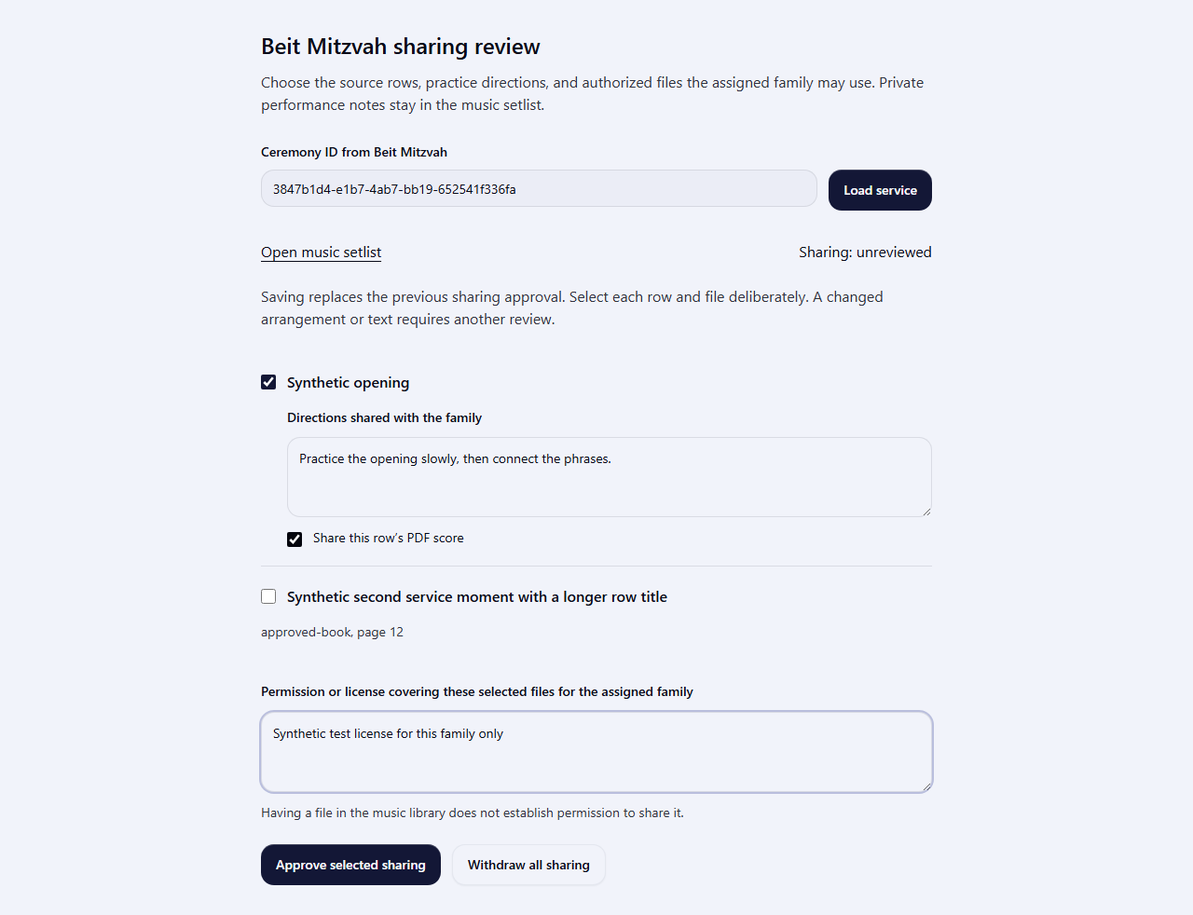
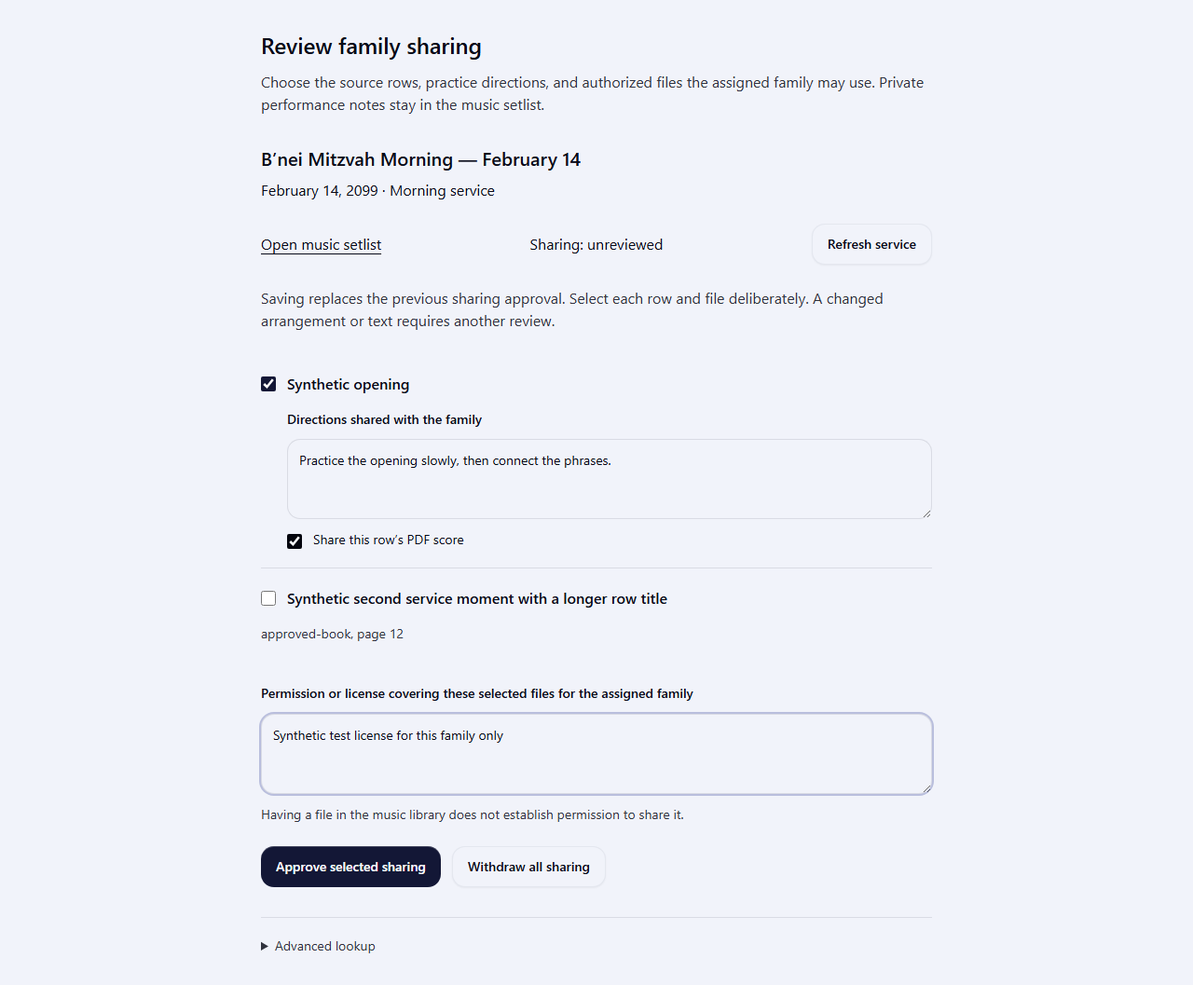
Fence schedule revisions and open linked sharing reviews directly

diff --git a/src/app/(main)/integrations/beit-mitzvah/page.tsx b/src/app/(main)/integrations/beit-mitzvah/page.tsx
@@ -1,6 +1,6 @@
 "use client"
 
-import { useEffect, useState } from "react"
+import { useCallback, useEffect, useState } from "react"
 import { useAuth } from "@/lib/auth-context"
 import { apiFetch } from "@/lib/api-client"
 import { Button } from "@/components/ui/button"
@@ -12,6 +12,19 @@ type ReviewRow = SharedRow & { audioFileId?: string | null }
 interface Inspection {
     setlistId: string; sourceRevision: string; reviewRequired: boolean; status: string
     requestedLocalDate: string; requestedCeremonyType: string; rows: ReviewRow[]
+    serviceName: string; localDate: string; ceremonyType: string
+}
+async function call(body: object) {
+    const response = await apiFetch("/api/integrations/beit-mitzvah/review", { method: "POST", body: JSON.stringify(body) })
+    const data = await response.json()
+    if (!response.ok) throw new Error(data.error === "stale_source" ? "The music changed. Refresh the service before approving." :
+        data.error === "source_schedule_mismatch" ? "Update the date and service type in the music setlist first, then confirm the schedule here." :
+        data.error === "resource_manifest_required" ? "A selected file needs an exact source catalog hash and Storage generation before it can be shared." :
+        data.error === "integration_unconfigured" ? "The music connection has not been configured." : "The action could not be completed. Check your music access and refresh the service.")
+    return data
+}
+function humanDate(date: string): string {
+    return new Date(`${date}T12:00:00Z`).toLocaleDateString("en-US", { dateStyle: "long", timeZone: "UTC" })
 }
 export default function BeitMitzvahReviewPage() {
     const { user, loading, role } = useAuth()
@@ -23,24 +36,20 @@ export default function BeitMitzvahReviewPage() {
     const [rights, setRights] = useState("")
     const [busy, setBusy] = useState(false)
     const [message, setMessage] = useState("")
-    useEffect(() => { setCeremonyId(new URLSearchParams(window.location.search).get("ceremonyId") ?? "") }, [])
-    async function call(body: object) {
-        const response = await apiFetch("/api/integrations/beit-mitzvah/review", { method: "POST", body: JSON.stringify(body) })
-        const data = await response.json()
-        if (!response.ok) throw new Error(data.error === "stale_source" ? "The music changed. Load the service again before approving." :
-            data.error === "source_schedule_mismatch" ? "Update the date and service type in the music setlist first, then confirm the schedule here." :
-            data.error === "resource_manifest_required" ? "A selected file needs an exact source catalog hash and Storage generation before it can be shared." :
-            data.error === "integration_unconfigured" ? "The music connection has not been configured." : "The action could not be completed. Check your music access and reload the service.")
-        return data
-    }
-    async function inspect() {
+    const inspect = useCallback(async (id: string) => {
         setBusy(true); setMessage("")
         try {
-            const data = await call({ operation: "inspect", ceremonyId }) as Inspection
+            const data = await call({ operation: "inspect", ceremonyId: id }) as Inspection
             setSource(data); setSelected([]); setFiles([]); setRights("")
             setDirections(Object.fromEntries(data.rows.map(row => [row.rowId, row.sharedDirections ?? ""])))
         } catch (error) { setSource(null); setMessage((error as Error).message) } finally { setBusy(false) }
-    }
+    }, [])
+    const canReview = !!user && ["admin", "band_leader"].includes(role ?? "")
+    useEffect(() => {
+        const id = new URLSearchParams(window.location.search).get("ceremonyId") ?? ""
+        setCeremonyId(id)
+        if (canReview && id) void inspect(id)
+    }, [canReview, inspect])
     async function save(operation: "approve" | "revoke" | "confirm_schedule") {
         if (!source) return
         setBusy(true); setMessage("")
@@ -55,7 +64,7 @@ export default function BeitMitzvahReviewPage() {
                 ...(operation === "approve" ? { rowIds: selected, sharedDirections: Object.fromEntries(selected.map(id => [id, directions[id] ?? ""])), resources } : {}),
             })
             setSource(null)
-            setMessage(operation === "revoke" ? "Sharing withdrawn. Future projection and file requests are blocked." : operation === "confirm_schedule" ? "Schedule confirmed. Load the service to review what families can see." : "Review saved. Only the selected rows and files are shared with the assigned ceremony.")
+            setMessage(operation === "revoke" ? "Sharing withdrawn. New family requests for these rows and files are blocked." : operation === "confirm_schedule" ? "Schedule confirmed. Refresh the service to review what families can see." : "Review saved. Only the selected rows and files are shared with the assigned ceremony.")
         } catch (error) { setMessage((error as Error).message) } finally { setBusy(false) }
     }
     const toggle = (id: string, values: string[], set: (values: string[]) => void) => set(values.includes(id) ? values.filter(value => value !== id) : [...values, id])
@@ -63,21 +72,22 @@ export default function BeitMitzvahReviewPage() {
     if (!user || !["admin", "band_leader"].includes(role ?? "")) return <p className="p-6">Sign in with your CRC music editor account to review family sharing.</p>
     return <main className="mx-auto max-w-3xl space-y-8 px-4 py-8 sm:px-6">
         <header className="space-y-3">
-            <h1 className="text-2xl font-semibold">Beit Mitzvah sharing review</h1>
+            <h1 className="text-2xl font-semibold">Review family sharing</h1>
             <p className="text-muted-foreground">Choose the source rows, practice directions, and authorized files the assigned family may use. Private performance notes stay in the music setlist.</p>
         </header>
-        <form className="flex flex-col gap-3" onSubmit={event => { event.preventDefault(); void inspect() }}>
-            <Label htmlFor="ceremony">Ceremony ID from Beit Mitzvah</Label>
-            <div className="flex flex-col gap-3 sm:flex-row">
-                <Input id="ceremony" value={ceremonyId} onChange={event => { setCeremonyId(event.target.value); setSource(null) }} required disabled={busy} />
-                <Button disabled={busy || !ceremonyId} type="submit">{busy ? "Working…" : "Load service"}</Button>
-            </div>
-        </form>
+        {busy && !source && <p role="status">Loading the service for review…</p>}
+        {!source && !busy && !message && <p>Open a ceremony’s sharing review from Beit Mitzvah to see its service here.</p>}
+        {!source && ceremonyId && !busy && <Button variant="outline" onClick={() => void inspect(ceremonyId)}>Refresh service</Button>}
         {message && <p role="status" className="rounded-md border p-4">{message}</p>}
         {source && <section aria-label="Source service review" className="space-y-6">
+            <header className="space-y-2">
+                <h2 className="text-xl font-semibold">{source.serviceName}</h2>
+                <p>{humanDate(source.localDate)} · {source.ceremonyType === "havdalah" ? "Havdalah service" : "Morning service"}</p>
+            </header>
             <div className="flex flex-wrap items-center justify-between gap-3">
                 <a className="underline underline-offset-4" href={`/perform/setlist/${source.setlistId}`}>Open music setlist</a>
                 <p>Sharing: {source.status}</p>
+                <Button variant="outline" disabled={busy} onClick={() => void inspect(ceremonyId)}>Refresh service</Button>
             </div>
             {source.reviewRequired && <div className="space-y-3 rounded-md border p-4">
                 <p>The schedule needs review. Update the music setlist to {source.requestedLocalDate}, {source.requestedCeremonyType}, then confirm the retained link.</p>
@@ -112,5 +122,15 @@ export default function BeitMitzvahReviewPage() {
                 <Button variant="outline" disabled={busy} onClick={() => void save("revoke")}>Withdraw all sharing</Button>
             </div>
         </section>}
+        <details className="border-t pt-5">
+            <summary className="cursor-pointer text-sm text-muted-foreground">Advanced lookup</summary>
+            <form className="mt-4 flex flex-col gap-3" onSubmit={event => { event.preventDefault(); void inspect(ceremonyId) }}>
+                <Label htmlFor="ceremony">Ceremony reference</Label>
+                <div className="flex flex-col gap-3 sm:flex-row">
+                    <Input id="ceremony" value={ceremonyId} onChange={event => { setCeremonyId(event.target.value); setSource(null) }} required disabled={busy} />
+                    <Button variant="outline" disabled={busy || !ceremonyId} type="submit">Look up service</Button>
+                </div>
+            </form>
+        </details>
     </main>
 }

diff --git a/src/lib/beit-mitzvah/service.ts b/src/lib/beit-mitzvah/service.ts
@@ -14,7 +14,7 @@ export class BridgeError extends Error {
 }
 export const hash = (input: unknown) => createHash("sha256").update(JSON.stringify(input)).digest("hex")
 export const linkId = (ceremonyId: string) => hash(["crc", ceremonyId])
-export const collections = { links: "beitMitzvahLinks", claims: "beitMitzvahClaims", receipts: "beitMitzvahReceipts", reviews: "beitMitzvahReviews" }
+export const collections = { links: "beitMitzvahLinks", claims: "beitMitzvahClaims", receipts: "beitMitzvahReceipts", reviews: "beitMitzvahReviews", intents: "beitMitzvahIntents" }
 export const templateType = (type: string) => type === "morning" ? "bnei_mitzvah_saturday" : "havdalah_bnei_mitzvah"
 const str = (value: unknown) => typeof value === "string" ? value : undefined
 const clean = (row: Data) => Object.fromEntries(Object.entries(row).filter(([, value]) => value !== undefined))
@@ -50,9 +50,29 @@ export async function ensureService(db: Firestore, request: EnsureRequest): Prom
     const claimRef = db.collection(collections.claims).doc(hash(["crc", request.localDate, request.ceremonyType]))
     const inputHash = hash(request)
     const candidateId = randomUUID()
+    const intentRef = db.collection(collections.intents).doc(linkId(request.ceremonyId))
+    const scheduleRevision = request.scheduleRevision ?? 1
+    // Persist ordering before attempting setup: even a failed newer operation
+    // must fence a previously unprocessed older queued import.
+    await db.runTransaction(async tx => {
+        const receipt = (await tx.get(receiptRef)).data()
+        if (receipt && receipt.inputHash !== inputHash) throw new BridgeError("idempotency_conflict")
+        if (receipt?.setlistId) return
+        const intent = (await tx.get(intentRef)).data()
+        if (intent && !isCRC(intent)) throw new BridgeError("link_conflict")
+        if (intent && scheduleRevision < Number(intent.scheduleRevision)) throw new BridgeError("stale_schedule_revision")
+        if (intent && scheduleRevision === intent.scheduleRevision &&
+            (intent.localDate !== request.localDate || intent.ceremonyType !== request.ceremonyType)) throw new BridgeError("schedule_revision_conflict")
+        if (!intent || scheduleRevision > Number(intent.scheduleRevision)) tx.set(intentRef, {
+            orgId: "crc", scheduleRevision, localDate: request.localDate, ceremonyType: request.ceremonyType,
+        })
+    })
     return db.runTransaction(async tx => {
         const receipt = (await tx.get(receiptRef)).data()
         if (receipt && receipt.inputHash !== inputHash) throw new BridgeError("idempotency_conflict")
+        const intent = (await tx.get(intentRef)).data()
+        if (intent && !isCRC(intent)) throw new BridgeError("not_found", 404)
+        if (!receipt?.setlistId && intent && scheduleRevision < Number(intent.scheduleRevision)) throw new BridgeError("stale_schedule_revision")
         const existing = (await tx.get(ceremonyRef)).data()
         if (existing) {
             if (!isCRC(existing)) throw new BridgeError("not_found", 404)
@@ -63,7 +83,8 @@ export async function ensureService(db: Firestore, request: EnsureRequest): Prom
             if (receipt?.setlistId) return { version: 1, status: existing.reviewRequired ? "review_required" : "linked", setlistId: String(existing.setlistId) }
             const changed = existing.localDate !== request.localDate || existing.ceremonyType !== request.ceremonyType ||
                 dateOf(linked.eventDate) !== existing.localDate || linked.templateType !== templateType(String(existing.ceremonyType))
-            if (changed) tx.update(ceremonyRef, { reviewRequired: true, requestedLocalDate: request.localDate, requestedCeremonyType: request.ceremonyType })
+            tx.update(ceremonyRef, { reviewRequired: changed || existing.reviewRequired === true,
+                scheduleRevision, requestedLocalDate: request.localDate, requestedCeremonyType: request.ceremonyType })
             tx.set(receiptRef, { orgId: "crc", inputHash, setlistId: existing.setlistId })
             return { version: 1, status: changed || existing.reviewRequired ? "review_required" : "linked", setlistId: String(existing.setlistId) }
         }
@@ -126,7 +147,8 @@ export async function ensureService(db: Firestore, request: EnsureRequest): Prom
             for (const row of rows) tx.create(db.collection("tracks").doc(String(row.id)), { ...row, setlistId })
         }
         const reviewRequired = !!selected && (dateOf(selected.eventDate) !== request.localDate || selected.templateType !== templateType(request.ceremonyType))
-        tx.create(ceremonyRef, { orgId: "crc", ceremonyId: request.ceremonyId, setlistId, localDate: request.localDate, ceremonyType: request.ceremonyType, reviewRequired })
+        tx.create(ceremonyRef, { orgId: "crc", ceremonyId: request.ceremonyId, setlistId, localDate: request.localDate, ceremonyType: request.ceremonyType,
+            scheduleRevision, requestedLocalDate: request.localDate, requestedCeremonyType: request.ceremonyType, reviewRequired })
         if (!claim || !request.explicitSetlistId) tx.set(claimRef, { orgId: "crc", setlistId })
         tx.set(receiptRef, { orgId: "crc", inputHash, setlistId })
         return { version: 1, status: reviewRequired ? "review_required" : "linked", setlistId }
@@ -136,8 +158,17 @@ export async function ensureService(db: Firestore, request: EnsureRequest): Prom
 export interface Source { link: Data; setlist: Data; rows: Data[]; sourceRevision: string }
 export async function readSource(db: Firestore, ceremonyId: string, tx?: Transaction): Promise<Source> {
     const get = (ref: FirebaseFirestore.DocumentReference) => tx ? tx.get(ref) : ref.get()
-    const link = (await get(db.collection(collections.links).doc(linkId(ceremonyId)))).data() as Data | undefined
+    const storedLink = (await get(db.collection(collections.links).doc(linkId(ceremonyId)))).data() as Data | undefined
+    const intent = (await get(db.collection(collections.intents).doc(linkId(ceremonyId)))).data() as Data | undefined
+    const link = storedLink && { ...storedLink }
     if (!isCRC(link)) throw new BridgeError("not_found", 404)
+    if (intent) {
+        if (!isCRC(intent)) throw new BridgeError("not_found", 404)
+        link.scheduleRevision = intent.scheduleRevision
+        link.requestedLocalDate = intent.localDate
+        link.requestedCeremonyType = intent.ceremonyType
+        link.reviewRequired = link.reviewRequired === true || intent.localDate !== link.localDate || intent.ceremonyType !== link.ceremonyType
+    }
     const parent = await get(db.collection("setlists").doc(String(link.setlistId)))
     const setlist = parent.data() as Data | undefined
     if (!isCRC(setlist) || setlist.isTest === true) throw new BridgeError("not_found", 404)
@@ -145,7 +176,7 @@ export async function readSource(db: Firestore, ceremonyId: string, tx?: Transac
     const tracks = tx ? await tx.get(query) : await query.get()
     if (tracks.size > 200 || tracks.docs.some(doc => !isCRC(doc.data()))) throw new BridgeError("source_requires_staff_review")
     const rows = tracks.docs.map(doc => ({ ...doc.data(), id: doc.id } as Data)).sort((a, b) => Number(a.order ?? 0) - Number(b.order ?? 0) || String(a.id).localeCompare(String(b.id)))
-    const sourceRevision = hash([setlist, rows])
+    const sourceRevision = hash([setlist, rows, intent ?? null])
     return { link, setlist, rows, sourceRevision }
 }
 export function shareableRows(source: Source): SharedRow[] {

diff --git a/src/lib/beit-mitzvah/service.emulator.test.ts b/src/lib/beit-mitzvah/service.emulator.test.ts
@@ -89,7 +89,7 @@ describe("transactional ceremony setup", () => {
     it("preserves the linked service on reschedule and reconciles only after source correction", async () => {
         const original = make()
         const first = await ensureService(db, original)
-        const rescheduled = { ...original, idempotencyKey: randomUUID(), localDate: "2099-02-21" }
+        const rescheduled = { ...original, idempotencyKey: randomUUID(), localDate: "2099-02-21", scheduleRevision: 2 }
         const result = await ensureService(db, rescheduled)
         expect(result).toMatchObject({ setlistId: first.setlistId, status: "review_required" })
         let source = await readSource(db, original.ceremonyId)
@@ -101,6 +101,35 @@ describe("transactional ceremony setup", () => {
         const link = (await db.collection(collections.links).doc(linkId(original.ceremonyId)).get()).data()!
         expect(link).toMatchObject({ localDate: "2099-02-21", reviewRequired: false })
         expect((await db.collection("setlists").get()).size).toBe(1)
+    })
+    it("fences an unprocessed older schedule intent, including after the newer operation fails", async () => {
+        const request = make({ scheduleRevision: 1 })
+        const linked = await ensureService(db, request)
+        const latest = { ...request, localDate: "2099-02-28", scheduleRevision: 3, idempotencyKey: randomUUID(), explicitSetlistId: "missing-source" }
+        await expect(ensureService(db, latest)).rejects.toThrow("link_conflict")
+        const older = { ...request, localDate: "2099-02-21", scheduleRevision: 2, idempotencyKey: randomUUID() }
+        await expect(ensureService(db, older)).rejects.toThrow("stale_schedule_revision")
+        const source = await readSource(db, request.ceremonyId)
+        expect(source.link).toMatchObject({ requestedLocalDate: "2099-02-28", scheduleRevision: 3, setlistId: linked.setlistId, reviewRequired: true })
+        await ensureService(db, request) // completed old receipt remains a harmless replay
+        expect((await readSource(db, request.ceremonyId)).link.requestedLocalDate).toBe("2099-02-28")
+        expect((await db.collection("setlists").get()).size).toBe(1)
+    })
+    it("keeps duplicate revision intents safe and rejects conflicting schedules at the same revision", async () => {
+        const request = make({ scheduleRevision: 1 })
+        const first = await ensureService(db, request)
+        const duplicate = await ensureService(db, { ...request, idempotencyKey: randomUUID() })
+        expect(duplicate.setlistId).toBe(first.setlistId)
+        await expect(ensureService(db, { ...request, localDate: "2099-02-21", idempotencyKey: randomUUID() })).rejects.toThrow("schedule_revision_conflict")
+        expect((await readSource(db, request.ceremonyId)).link.requestedLocalDate).toBe(request.localDate)
+        expect((await db.collection("setlists").get()).size).toBe(1)
+    })
+    it("does not create an old queued service after a newer initial setup fails", async () => {
+        const newest = make({ scheduleRevision: 5, explicitSetlistId: "missing-source" })
+        await expect(ensureService(db, newest)).rejects.toThrow("not_found")
+        await expect(ensureService(db, { ...newest, explicitSetlistId: undefined, scheduleRevision: 4, localDate: "2099-02-07", idempotencyKey: randomUUID() })).rejects.toThrow("stale_schedule_revision")
+        expect((await db.collection("setlists").get()).size).toBe(0)
+        expect((await db.collection(collections.links).get()).size).toBe(0)
     })
 })
 describe("reviewed projections and revocable resources", () => {

diff --git a/src/lib/beit-mitzvah/resources.ts b/src/lib/beit-mitzvah/resources.ts
@@ -64,6 +64,8 @@ export async function manageReview(db: Firestore, uid: string, request: z.infer<
     if (request.operation === "inspect") {
         const current = (await ref.get()).data()
         return { version: 1, setlistId: source.link.setlistId, sourceRevision: source.sourceRevision,
+            serviceName: String(source.setlist.name ?? "B'nei Mitzvah service"),
+            localDate: dateOf(source.setlist.eventDate) ?? source.link.localDate, ceremonyType: source.link.ceremonyType,
             reviewRequired: sourceNeedsReview(source), requestedLocalDate: source.link.requestedLocalDate ?? source.link.localDate,
             requestedCeremonyType: source.link.requestedCeremonyType ?? source.link.ceremonyType,
             rows: shareableRows(source).map(row => ({ ...row,

diff --git a/src/lib/beit-mitzvah/access.test.ts b/src/lib/beit-mitzvah/access.test.ts
@@ -44,6 +44,8 @@ describe("narrow music service authentication", () => {
         expect(bridgeRequest.safeParse({ ...valid, operation: "apply" }).success).toBe(false)
         expect(bridgeRequest.safeParse({ ...valid, resourceURL: "https://evil.test" }).success).toBe(false)
         expect(bridgeRequest.safeParse({ ...valid, orgId: "brotherslazaroff" }).success).toBe(false)
+        expect(bridgeRequest.safeParse({ ...valid, scheduleRevision: 0 }).success).toBe(false)
+        expect(bridgeRequest.safeParse({ ...valid, scheduleRevision: 2.5 }).success).toBe(false)
     })
     it("requires a fresh verified source editor and rejects the setup credential for review", async () => {
         configure()

diff --git a/src/lib/beit-mitzvah/contract.ts b/src/lib/beit-mitzvah/contract.ts
@@ -11,6 +11,7 @@ export const bridgeRequest = z.discriminatedUnion("operation", [
     z.object({ ...base, operation: z.literal("ensure"), localDate,
         ceremonyType: z.enum(["morning", "havdalah"]),
         idempotencyKey: z.string().trim().min(1).max(128),
+        scheduleRevision: z.number().int().min(1).max(2147483647).optional(),
         explicitSetlistId: opaqueId.optional(), displayName: z.string().trim().min(1).max(160).optional(),
     }).strict(),
     z.object({ ...base, operation: z.literal("projection") }).strict(),

diff --git a/docs/planning/2026-10-20-beit-mitzvah-service-bridge/CONTRACT.md b/docs/planning/2026-10-20-beit-mitzvah-service-bridge/CONTRACT.md
@@ -4,17 +4,17 @@ Producer: centralreform.live. Consumer: the Beit Mitzvah portal server. The runt
 
 ## Server interface
 
-`POST https://centralreform.live/api/integrations/beit-mitzvah/v1`, JSON, with a dedicated `Authorization: Bearer <service credential>` header. This credential permits only setup, reviewed projection reads, and explicitly approved resource resolution. It cannot review sharing or edit existing source music. Runtime schemas reject extra fields, arbitrary URLs, invalid calendar dates, unsupported operations, non-CRC organization IDs, and oversized payloads. All responses are private/no-store.
+`POST https://centralreform.live/api/integrations/beit-mitzvah/v1`, JSON, with a dedicated `Authorization: Bearer <service credential>` header. The handler also requires `x-org-id: crc`: production host middleware derives this from the canonical CRC host and overwrites caller-supplied tenant headers. Direct handler tests/internal requests must provide this header explicitly; a body organization ID never overrides the host tenant. This credential permits only setup, reviewed projection reads, and explicitly approved resource resolution. It cannot review sharing or edit existing source music. Runtime schemas reject extra fields, arbitrary URLs, invalid calendar dates, unsupported operations, non-CRC organization IDs, and oversized payloads. All responses are private/no-store.
 
 Every body has `version: 1`, `orgId: "crc"`, and a UUID `ceremonyId`. Joint students share one ceremony UUID. Never use a student ID or a personal name as the ceremony identity.
 
-- `operation: "ensure"` adds `localDate` (YYYY-MM-DD), `ceremonyType` (`morning` or `havdalah`), and `idempotencyKey` (1–128 nonblank characters). Optional `explicitSetlistId` wins; optional `displayName` is used only when explicitly supplied. The default name contains service kind and date, with no participant names.
+- `operation: "ensure"` adds `localDate` (YYYY-MM-DD), `ceremonyType` (`morning` or `havdalah`), and `idempotencyKey` (1–128 nonblank characters). The portal supplies its durable positive integer `scheduleRevision` (maximum 2147483647; omitted legacy requests mean revision 1). Optional `explicitSetlistId` wins; optional `displayName` is used only when explicitly supplied. The default name contains service kind and date, with no participant names.
 - `operation: "projection"` needs no additional fields.
 - `operation: "resource"` adds `rowId` and `resourceId`, taken from the reviewed projection. The caller cannot provide a URL or file path.
 
 Setup preserves an existing ceremony link. Otherwise it uses an explicit source ID or requires a unique current CRC/local-date/structured-template-type match. Several matches return `status: "ambiguous"` with candidate setlist IDs, without creating a service. The durable date/type claim serializes competing setup requests but does not override source ambiguity. No match on a future date creates one native setlist and native top-level track documents from the existing configured `templates/bnei_mitzvah_saturday` or `templates/havdalah_bnei_mitzvah` override, or that built-in template. Only explicit file bonds travel; the fuzzy library matcher is never invoked. Existing configured book defaults are honored. Morning starts at 10:00 and Havdalah at 16:00 America/Chicago. The setlist, rows, link, claim, and receipt commit in one Firestore transaction.
 
-Completed retry keys return the retained service; changed payloads with the same key return HTTP 409 `idempotency_conflict`. Rescheduling retains the source ID and marks the link for review. A delayed replay of the old completed request cannot undo a confirmed reschedule.
+Completed retry keys return the retained service; changed payloads with the same key return HTTP 409 `idempotency_conflict`. A separate durable intent fence saves the greatest schedule revision before setup, so a failed newer operation still prevents a previously unprocessed old job from replacing it. Lower uncompleted revisions return HTTP 409 `stale_schedule_revision`; the portal should mark that job superseded. An equal revision with a different date/type returns `schedule_revision_conflict`. Duplicate equal revisions for the same schedule are safe. Each setup transaction rechecks the fence, including concurrent joint requests. Staff inspection/projections see the newest requested schedule even if its setup failed. Rescheduling retains the source ID and marks the link for review. A delayed replay of the old completed request cannot undo a confirmed reschedule.
 
 Normal HTTP 200 bodies contain `version: 1`, `status: "linked" | "ambiguous" | "review_required"`, and, when available, `setlistId`, `sourceRevision`, and `projection`. The projection contains `setlistId`, `sourceRevision`, `localDate`, `ceremonyType`, `rows`, and `operatorLinks: {music, review}`. Each source row has a stable `rowId`, source `order`, and reviewed `title`; optional fields are `prayerId`, `catalogUnitId`, `biblicalRef`, `edition`, `textIdentity`, `sharedDirections`, `liturgyRef: {book, folio, unitId?, serviceViewId?}`, and `arrangement: {songId?, fileId?, key?}`. A resource is `{resourceId, kind: "score" | "audio", label}`.
 
@@ -24,9 +24,9 @@ Unreviewed, withdrawn, rescheduled, or musically changed source identities retur
 
 ## Source editor workflow
 
-`/integrations/beit-mitzvah?ceremonyId=<UUID>` is the source editor screen. Its separate `POST /api/integrations/beit-mitzvah/review` API requires a revocation-checked Firebase ID token and a fresh CRC `admin` or `band_leader` source role. The setup credential, portal roles, and read-only View As mode cannot authorize these writes.
+`/integrations/beit-mitzvah?ceremonyId=<UUID>` is the source editor screen. A portal link opens and loads its service automatically, showing its human service name, date, and kind. Staff do not copy ceremony IDs; manual lookup is optional under **Advanced lookup**. Its separate `POST /api/integrations/beit-mitzvah/review` API requires a revocation-checked Firebase ID token and a fresh CRC `admin` or `band_leader` source role. The setup credential, portal roles, and read-only View As mode cannot authorize these writes.
 
-1. Load the linked service and open its source setlist to make any actual musical changes there.
+1. Open **Review sharing** from the portal; the linked service loads automatically. Open its source setlist to make any actual musical changes there.
 2. For a reschedule, correct the source date/type, then choose **Confirm corrected schedule**. The API verifies the requested date/type and optimistic source revision, retains the setlist, and reconciles the claim. It never regenerates music.
 3. Select the rows, curate shared directions, and deliberately select each score/reference recording. Record the permission or license covering those exact selected files for the assigned family. Library presence is not a rights basis.
 4. **Approve selected sharing** replaces the prior approval. **Withdraw all sharing** blocks future projections and file requests immediately, including previously issued tickets. No UI action grants public-reader access.
@@ -42,7 +42,7 @@ No configuration, deployment, real ceremony creation, grant, or secret provision
 1. Complete the required independent adversarial review and applicable rights/release gates.
 2. Generate a dedicated high-entropy server credential through the approved secret manager (32–512 non-whitespace characters); never commit it, put it in browser variables, print it, or reuse a human OAuth/MCP token.
 3. Configure `BEIT_MITZVAH_SERVICE_TOKEN` in both server environments. Configure music `BEIT_MITZVAH_SERVICE_ORG_ID=crc` explicitly. Configure portal `BEIT_MITZVAH_MUSIC_URL` to the full versioned endpoint and its separate local CRC tenant mapping. An absent/invalid music configuration returns HTTP 503 `integration_unconfigured`.
-4. Deploy only after approval. Confirm source host tenant resolution supplies CRC to the routes; other source tenant hosts are refused. New bridge collections remain server-only under the existing Firestore deny-all fallback. No rules or public-reader settings need loosening.
+4. Deploy when the required checks and applicable rights/release gates are satisfied, following the source repository's standing deployment policy. This contract adds no separate Daniel approval checkpoint. Confirm source host tenant resolution supplies CRC to the routes; other source tenant hosts are refused. New bridge collections remain server-only under the existing Firestore deny-all fallback. No rules or public-reader settings need loosening.
 5. Verify an authorized test ceremony through the portal and source editor, including an intentional grant withdrawal and source-identity change. Live Storage delivery and the deployed cross-application path still require this release verification.
 
 Credential rotation disables future service authentication and resource-ticket verification on deployments using the new credential. Environment changes require deployment; separately protect or retire older deployments. Per-ceremony withdrawal is the immediate data control without a deploy.

diff --git a/docs/planning/2026-10-20-beit-mitzvah-service-bridge/RETURN.md b/docs/planning/2026-10-20-beit-mitzvah-service-bridge/RETURN.md
@@ -4,9 +4,9 @@ Implemented locally on `codex/beit-mitzvah-service-bridge` in `C:/Users/dsbog/Ce
 
 ## Delivered
 
-- Versioned, CRC-only dedicated-service endpoint for transactional ceremony setup, reviewed projection, and individually granted resources. Stable ceremony IDs plus durable receipts/claims handle retries/concurrent joint ceremonies. Ambiguity refuses; explicit staff links win. Reschedules retain the setlist and require editor reconciliation.
+- Versioned, CRC-only dedicated-service endpoint for transactional ceremony setup, reviewed projection, and individually granted resources. Stable ceremony IDs plus durable receipts/claims handle retries/concurrent joint ceremonies. A monotonic schedule-intent fence persists before setup, including failed setup, so delayed unprocessed jobs cannot undo newer intent. Ambiguity refuses; explicit staff links win. Reschedules retain the setlist and require editor reconciliation.
 - Native source setlist/template rows, explicit configured bonds/book defaults only, confirmed 10:00/16:00 Chicago start times, no fuzzy melody selection or participant names by default.
-- Source editor screen/API for deliberate row/resource approval, shared directions, rights basis, withdrawal, and optimistic schedule reconciliation. Human Firebase ID verification checks revocation and current source editor role; service credentials and read-only View As cannot review.
+- Source editor screen/API for deliberate row/resource approval, shared directions, rights basis, withdrawal, and optimistic schedule reconciliation. Portal-linked visits load automatically and identify the service by name/date/type; optional manual references are hidden under Advanced lookup. Human Firebase ID verification checks revocation and current source editor role; service credentials and read-only View As cannot review.
 - Distinct music moment, reader unit, and portal catalog identities; no inferred cross-namespace mapping. The portal owns its catalog mapping. Source order remains authoritative; order-only changes preserve semantic approvals. Private notes never become shared directions.
 - Exact-generation 4 MiB PDF/MP3 source proxy with short tickets and live grant/catalog/source rechecks before and after byte download. No public-reader grant, library membership, Drive fallback, generated voice, student upload, or live Overlays command.
 
@@ -20,8 +20,8 @@ Measured in this worktree:
 - `npm run check:types`: passed (monitor type synchronization).
 - Scoped ESLint over `src/lib/beit-mitzvah`, the new API routes, and the new source review page: passed.
 - `node_modules/.bin/vitest.cmd run src/lib/beit-mitzvah/access.test.ts src/lib/liturgical-templates.test.ts src/lib/mcp/__tests__/write-receipts.test.ts src/lib/api-auth.test.ts --reporter=dot`: 59 tests passed, including 5 new auth/schema/ticket/payload/editor tests.
-- Isolated Firestore emulator command: `firebase emulators:exec --project demo-beit-mitzvah-bridge --config <local config with Firestore port 8188> --only firestore "node node_modules/vitest/vitest.mjs run --config vitest.emulator.config.ts src/lib/beit-mitzvah/service.emulator.test.ts --reporter=verbose"`: 8 tests passed. Covers real Firestore joint concurrency/replay, canonical-claim ambiguity, cross-tenant IDs/catalog/tracks, retained reschedule/reconciliation/old replay, curated metadata/directions, independent identity namespaces, source-order preservation/identity withdrawal, and ticket revocation.
-- Browser review with the actual source page/components/CSS and synthetic auth/API fixtures at 390 px and 1280 px: no horizontal overflow; approve/withdraw feedback worked at both widths; reconciliation feedback worked at phone width. Screenshots are in `visual/`. This is UI fixture verification, not live authentication or external delivery.
+- Isolated Firestore emulator command: `firebase emulators:exec --project demo-beit-mitzvah-bridge --config <local config with Firestore port 8188> --only firestore "node node_modules/vitest/vitest.mjs run --config vitest.emulator.config.ts src/lib/beit-mitzvah/service.emulator.test.ts --reporter=verbose"`: 11 tests passed. Covers real Firestore joint concurrency/replay, canonical-claim ambiguity, cross-tenant IDs/catalog/tracks, retained reschedule/reconciliation/old replay, failed-newer/late-older schedule intents, equal-revision duplicates/conflicts, curated metadata/directions, independent identity namespaces, source-order preservation/identity withdrawal, and ticket revocation. The 5 affected auth/schema tests were rerun and passed after the revision field was added.
+- Browser review with the actual source page/components/CSS and synthetic auth/API fixtures at 390 px and 1280 px: portal query links automatically loaded the service; the manual ceremony reference stayed hidden; no horizontal overflow; approve/withdraw feedback worked at both widths; reconciliation feedback worked at phone width. Screenshots are in `visual/`. This is UI fixture verification, not live authentication or external delivery.
 - Impeccable mechanical detector: no findings. Preserved the incumbent design and scoped the page to native forms.
 
 The first emulator invocation failed before testing because Windows did not recognize a forward-slash executable path. Reran through `node node_modules/vitest/vitest.mjs`; the test runs above passed. Logs are local `.beit-*.log` files.
@@ -32,4 +32,4 @@ Storage metadata/download are stubbed with synthetic bytes in emulator tests. Re
 
 ## Remaining / next action
 
-Parent integrates the portal adapter against the versioned schema and runs the required independent adversarial review of both repositories. After release/rights approval, provision the dedicated server credential and explicit CRC configuration following CONTRACT.md. Source staff then review actual assigned services and permissions. Preserve the portal reference-playback hold and existing generated-chant release gates. Do not deploy or grant resources merely because this local implementation passes.
+Parent integrates the portal adapter against the versioned schema and runs the required independent adversarial review of both repositories. When required checks and applicable rights/release gates are satisfied, provision the dedicated server credential and explicit CRC configuration following CONTRACT.md and the source repository's existing deployment policy; this work adds no separate Daniel checkpoint. Source staff then review actual assigned services and permissions. Preserve the portal reference-playback hold and existing generated-chant release gates. Do not grant resources merely because this local implementation passes.
